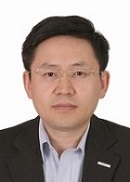
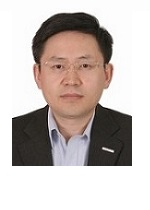
大小

diff --git a/css/nasac_fmac.css b/css/nasac_fmac.css
@@ -628,7 +628,7 @@ top:0
 }
 
 .photo5{
-	background-image:url(../images/photo/55.jpg)
+	background-image:url(../images/photo/555.png)
 }
 
 .photo6{
